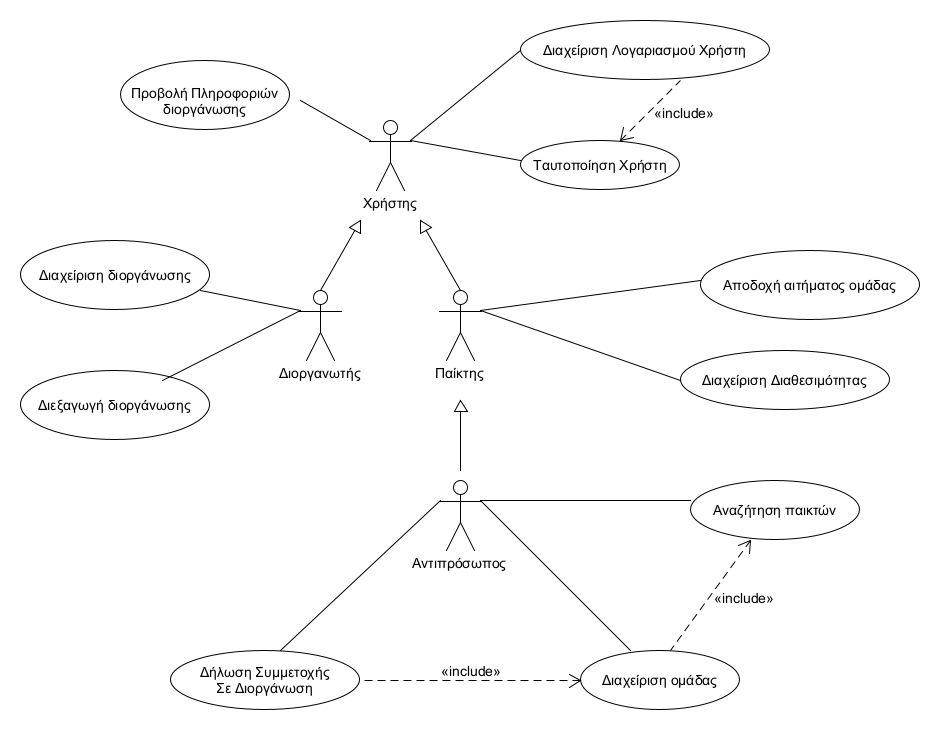
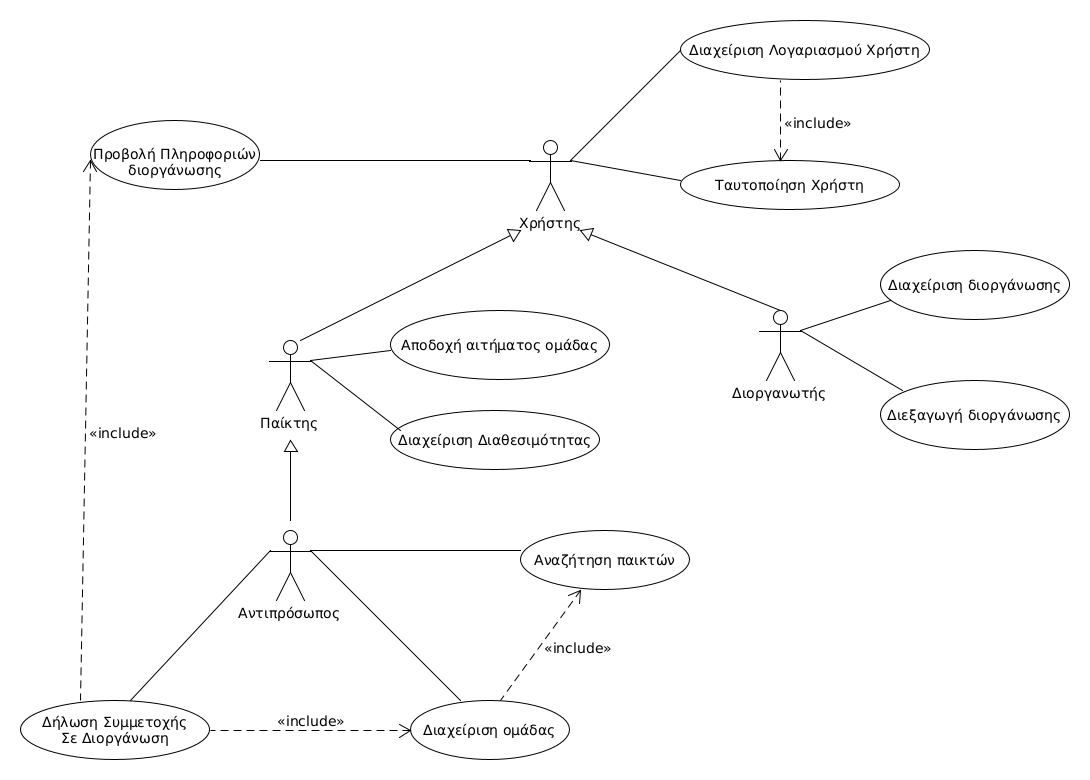
new r2 use case

diff --git a/docs/markdown/uc8-join-tournament.md b/docs/markdown/uc8-join-tournament.md
@@ -12,47 +12,25 @@
 1. Ο αντιπρόσωπος να ταυτοποιηθεί από το σύστημα.
 2. Ο αντιπρόσωπος να έχει δημιουργήσει ομάδα.
 
-## Βασική Ροή
-
-### Α) Αναζήτηση διοργάνωσης.
-1. Ο αντιπρόσωπος επιλέγει την επιλογή "Συμμετοχή σε διοργάνωση".
-2. Το σύστημα εμφανίζει στον αντιπρόσωπο όλα τα αθλήματα, για τα οποία έχουν δημιουργηθεί διοργανώσεις.
-3. Ο αντιπρόσωπος επιλέγει το άθλημα που επιθυμεί από το menu επιλογών.
-4. Το σύστημα εμφανίζει σε μορφή λίστας όλες τις διοργανώσεις για το άθλημα που επέλεξε ο αντιπρόσωπος, με την κατηγορία της κάθε διοργάνωσης (π.χ. 5v5, 7x7 ,παίδες, παμπαιδικό κλπ. ).
-5. Ο αντιπρόσωπος επιλέγει μία διοργάνωση από την λίστα που επιθυμεί ή αναζητά το όνομα μιας διοργάνωσης από την γραμμή αναζήτησης που υπάρχει στην σελίδα.
-6. Το σύστημα εμφανίζει τα στοιχεία της διοργάνωσης ( όνομα, διοργανωτής, ηλικιακή κατηγορία ) και τις ομάδες που έχουν ήδη λάβει μέρος σε αυτήν σε μορφή πίνακα.
-
-## Εναλλακτικές Ροές
-
-*3α. Ο αντιπρόσωπος επιλέγει ακύρωση, στην συμμετοχή στην διοργάνωση.*
-1. Η περίπτωση χρήσης τερματίζει.
-
-*4α. Η λίστα είναι άδεια*
-1. Το σύστημα εμφανίζει μήνυμα σφάλματος.
-2. Πήγαινε στο Βήμα 2. 
-
-
-*6α. Δεν βρέθηκε διοργάνωση με το όνομα που δόθηκε από τον αντιπρόσωπο, σε περίπτωση αναζήτησης.*
-1. Το σύστημα εμφανίζει μήνυμα σφάλματος.
-2. Πήγαινε στο Βήμα 5. 
 
 ## Βασική Ροή
 
-### Β) Είσοδος στην επιλεγμένη διοργάνωση.
+### Α) Είσοδος στην επιλεγμένη διοργάνωση.
 
-1. Ο αντιπρόσωπος επιλέγει την επιλογή "Είσοδος στην διοργάνωση", που του εμφανίζεται μαζί με τα στοιχεία της διοργάνωσης που έχει επιλέξει.
-2. Το σύστημα εμφανίζει στον αντιπρόσωπο ένα αναδυόμενο παράθυρο με τις κατάλληλες ομάδες του αντιπροσώπου, που μπορούν να συμμετάσχουν στην διοργάνωση και του ζητάει να επιλέξει μία από αυτές.
-3. Ο αντιπρόσωπος, επιλέγει την ομάδα που επιθυμεί να συμμετάσχει από την λίστα με τις ομάδες του.
-4. Αν πληροί τις προυπόθεσεις της διοργάνωσης, το σύστημα αποδέχεται το αίτημα εισόδου και η ομάδα είναι πλέον στην διοργάνωση.
-5. Το σύστημα ενημερώνει το πίνακα με τις ομάδες που συμμετέχουν στην διοργάνωση.
+1. Ο αντιπρόσωπος αναζητά διοργανώσεις μέσω της [Προβολή πληροφοριών διοργάνωσης](uc1-view-tournament-info.md) 
+2. Ο αντιπρόσωπος επιλέγει την επιλογή "Είσοδος στην διοργάνωση", που του εμφανίζεται μαζί με τα στοιχεία της διοργάνωσης που έχει επιλέξει.
+3. Το σύστημα εμφανίζει στον αντιπρόσωπο ένα αναδυόμενο παράθυρο με τις κατάλληλες ομάδες του αντιπροσώπου, που μπορούν να συμμετάσχουν στην διοργάνωση και του ζητάει να επιλέξει μία από αυτές.
+4. Ο αντιπρόσωπος, επιλέγει την ομάδα που επιθυμεί να συμμετάσχει από την λίστα με τις ομάδες του.
+5. Αν πληροί τις προυπόθεσεις της διοργάνωσης, το σύστημα αποδέχεται το αίτημα εισόδου και η ομάδα είναι πλέον στην διοργάνωση.
+6. Το σύστημα ενημερώνει το πίνακα με τις ομάδες που συμμετέχουν στην διοργάνωση.
 
 ## Εναλλακτικές Ροές
 
-*2α. Η λίστα με τις κατάλληλες ομάδες είναι άδεια.*
+*3α. Η λίστα με τις κατάλληλες ομάδες είναι άδεια.*
 1. Το σύστημα ενημερώνει τον αντιπρόσωπο ότι δεν έχει δημιουργήσει ομάδα που να μπορεί να συμμετέχει στη συγκεκριμένη διοργάνωση.
 2. Το σύστημα κατευθύνει τον χρήστη στην λίστα με τις διοργανώσεις του αθλήματος.
 
-*2β. Η διοργάνωση που επιλέχθηκε έιναι πλήρης απο συμμετοχές.*
+*3β. Η διοργάνωση που επιλέχθηκε έιναι πλήρης απο συμμετοχές.*
 1. Το σύστημα ενημερώνει το χρήστη με κατάλληλο μήνυμα.
 2. Το σύστημα κατευθύνει τον χρήστη στην λίστα με τις διοργανώσεις του αθλήματος.
 
@@ -62,7 +40,7 @@
 
 ## Βασική Ροή
 
-### Γ) Έξοδος από την επιλεγμένη διοργάνωση.
+### Β) Έξοδος από την επιλεγμένη διοργάνωση.
 
 1. Ο αντιπρόσωπος κατευθύνεται από το μενού στις διοργανώσεις που συμμετέχει.
 2. Το σύστημα εμφανίζει στον αντιπρόσωπο όλες τις διοργανώσεις που έχει λάβει μέρος.

diff --git a/docs/markdown/software-requirements.md b/docs/markdown/software-requirements.md
@@ -37,11 +37,21 @@
 
 ### Οι ενδιαφερόμενοι και οι ανάγκες τους
 
-\[*Ένας πίνακας των ενδιαφερομένων (stakeholders) με τις ανάγκες τους. Βλέπε πίνακα 3-6 του παραδείγματος 3-2 στη σελίδα 138 του βιβλίου.*\]
+Ενδιαφερόμενος |  Ανάγκες
+------------ | --------------
+** Χρήστης ** | Ο χρήστης εγγεγραμένος ή μη θα έχει την δυνατότητα να παρακολουθεί τις γενικότερες πληροφορίες για κάποια διοργάνωση ( αγώνες, βαθμολογίες κλπ.)
+** Διοργανωτής ** | Ο χρήστης μπορεί δημιουργήσει ή να επεξεργαστεί τον λογαριασμό του.
+** Παίκτης ** | Ο εγγεγραμμένος χρήστης οφείλει να ταυτοποιείται σε κάθε του σύνδεση στην πλατφόρμα του συστήματος.
+** Αντιπρόσωπος ** | Ο διοργανωτής ορίζει τα στοιχεία της διοργάνωσης, πρίν ή μετα τη δημιουργία της.
 
 ### Actors του συστήματος
 
-\[*Ένα πίνακας με του actors του συστήματος. Βλέπε πίνακας 3-7 παραδείγματος 3-11 στη σελίδα 167 του βιβλίου.*\]
+Actors |  Περιγραφή
+------------ | --------------
+** Χρήστης ** | Ο χρήστης εγγεγραμένος ή μη θα έχει την δυνατότητα να παρακολουθεί τις γενικότερες πληροφορίες για κάποια διοργάνωση ( αγώνες, βαθμολογίες κλπ.)
+** Διοργανωτής ** | Ο χρήστης μπορεί δημιουργήσει ή να επεξεργαστεί τον λογαριασμό του.
+** Παίκτης ** | Ο εγγεγραμμένος χρήστης οφείλει να ταυτοποιείται σε κάθε του σύνδεση στην πλατφόρμα του συστήματος.
+** Αντιπρόσωπος ** | Ο διοργανωτής ορίζει τα στοιχεία της διοργάνωσης, πρίν ή μετα τη δημιουργία της.
 
 ### Περιγραφές περιπτώσεων χρήσης
 

diff --git a/docs/markdown/uc1-view-tournament-info.md b/docs/markdown/uc1-view-tournament-info.md
@@ -18,7 +18,8 @@
 1. Ο Χρήστης επιλέγει κριτήρια αναζήτησης διοργανώσεων (περιοχή, άθλημα, ηλικιακή ομάδα).
 2. Το σύστημα εμφανίζει τις διοργανώσεις που τηρούν τα κριτήρια αναζήτησης.
 3. Ο χρήστης επιλέγει μια απο τις διοργανώσεις που του εμφανίζονται.
-4. Το σύστημα προβάλει τις πληροφορίες της διοργάνωσης (αγώνες, σκόρ, ομάδες που συμμετέχουν, ημερομηνίες που διεξάγεται αν αφορά μελλοντική οργάνωση κ.λ.π.)
+4. Το σύστημα προβάλει τις πληροφορίες της διοργάνωσης (αγώνες, σκόρ, ομάδες που συμμετέχουν, ημερομηνίες που διεξάγεται αν αφορά μελλοντική οργάνωση κ.λ.π.) και τις ομάδες που έχουν ήδη λάβει μέρος σε αυτήν σε μορφή πίνακα.
+
 
 ## Εναλλακτικές Ροές
 
